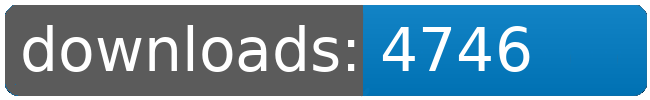
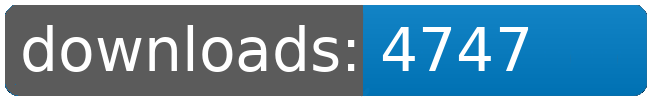
dl log written

Changed region(s): [[0.7692, 0.24, 0.8308, 0.72]]

diff --git a/README.md b/README.md
@@ -21,8 +21,8 @@
 		<td>4658</td>
 		<td>4696</td>
 		<td>4737</td>
-		<td>4746</td>
-		<td>+ 9</td>
+		<td>4747</td>
+		<td>+ 10</td>
 	</tr>
 	<tr>
 		<td>Factory.Outlets</td>
@@ -109,8 +109,8 @@
 		<td></td>
 		<td></td>
 		<td></td>
-		<td>38918</td>
-		<td>67</td>
+		<td>38919</td>
+		<td>68</td>
 	</tr>
 </table>
 </sub></sup>
@@ -168,8 +168,8 @@
 		<td>4658</td>
 		<td>4696</td>
 		<td>4737</td>
-		<td>4746</td>
-		<td>+ 9</td>
+		<td>4747</td>
+		<td>+ 10</td>
 	</tr>
 	<tr>
 		<td>Solar.Sails</td>
@@ -223,8 +223,8 @@
 		<td></td>
 		<td></td>
 		<td></td>
-		<td>38918</td>
-		<td>67</td>
+		<td>38919</td>
+		<td>68</td>
 	</tr>
 </table>
 </sub></sup>
@@ -232,7 +232,6 @@
 <table>
 	<tr>
 		<td> </td>
-		<td>2026-03-20</td>
 		<td>2026-03-21</td>
 		<td>2026-03-22</td>
 		<td>2026-03-23</td>
@@ -241,10 +240,10 @@
 		<td>2026-03-26</td>
 		<td>2026-03-27</td>
 		<td>2026-03-28</td>
+		<td>2026-03-29</td>
 	</tr>
 	<tr>
 		<td>page views</td>
-		<td>9</td>
 		<td>25</td>
 		<td>19</td>
 		<td>15</td>
@@ -253,10 +252,10 @@
 		<td>12</td>
 		<td>25</td>
 		<td>15</td>
+		<td>99</td>
 	</tr>
 	<tr>
 		<td>unique visitors</td>
-		<td>4</td>
 		<td>7</td>
 		<td>11</td>
 		<td>7</td>
@@ -265,6 +264,7 @@
 		<td>6</td>
 		<td>5</td>
 		<td>7</td>
+		<td>14</td>
 	</tr>
 </table>
 <br>
@@ -278,8 +278,8 @@
 	</tr>
 	<tr>
 		<td>2025-10-13</td>
-		<td>4046</td>
-		<td>1212</td>
+		<td>4145</td>
+		<td>1226</td>
 		<td>169</td>
 		<td>45</td>
 	</tr>
@@ -292,8 +292,8 @@
 	</tr>
 	<tr>
 		<td>168</td>
-		<td>24.08</td>
-		<td>7.21</td>
+		<td>24.67</td>
+		<td>7.30</td>
 		<td></td>
 		<td></td>
 	</tr>
